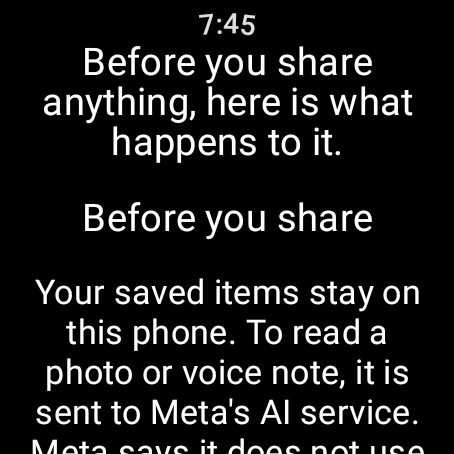
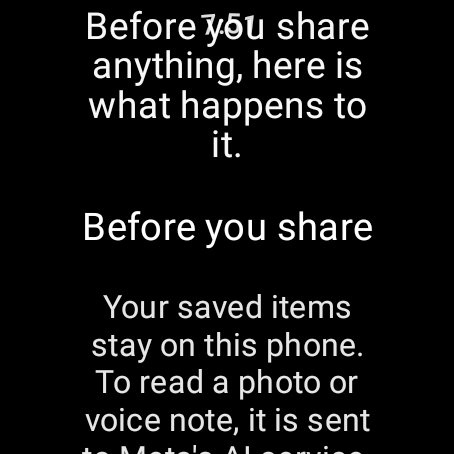
Wear: round-safe layout and round screenshots

diff --git a/wear/app/src/main/java/app/asih/wear/MainActivity.kt b/wear/app/src/main/java/app/asih/wear/MainActivity.kt
@@ -16,8 +16,7 @@ import androidx.activity.compose.rememberLauncherForActivityResult
 import androidx.activity.result.contract.ActivityResultContracts
 import androidx.compose.foundation.background
 import androidx.compose.foundation.layout.*
-import androidx.compose.foundation.rememberScrollState
-import androidx.compose.foundation.verticalScroll
+import androidx.compose.ui.platform.LocalConfiguration
 import androidx.compose.runtime.*
 import androidx.compose.ui.Alignment
 import androidx.compose.ui.Modifier
@@ -26,6 +25,9 @@ import androidx.compose.ui.platform.LocalContext
 import androidx.compose.ui.text.style.TextAlign
 import androidx.compose.ui.semantics.contentDescription
 import androidx.compose.ui.semantics.semantics
+import androidx.compose.ui.layout.boundsInRoot
+import androidx.compose.ui.layout.onGloballyPositioned
+import androidx.compose.ui.geometry.Rect
 import androidx.compose.ui.unit.dp
 import androidx.compose.ui.unit.sp
 import androidx.core.content.ContextCompat
@@ -52,10 +54,15 @@ import kotlin.concurrent.thread
 private enum class Screen { NOTICE, HOME, SETTINGS, REPLY }
 
 class MainActivity : ComponentActivity(), TextToSpeech.OnInitListener {
-    internal companion object { var testInstance: MainActivity? = null; var testDisableLazyLists = false }
+    internal companion object { var testInstance: MainActivity? = null }
     internal var testRenderedText: List<String> = emptyList()
     internal var testCurrentScreen: String = ""
     internal var testTalkButtonLabel: String = ""
+    internal var testNavigateScreen: ((String) -> Unit)? = null
+    internal var testTalkAction: (() -> Unit)? = null
+    internal var testTitleBounds: Rect? = null
+    internal var testIntroBounds: Rect? = null
+    internal var testClockBounds: Rect? = null
     private var tts: TextToSpeech? = null
     private var ttsReady = false
     private var langCode = "en"
@@ -86,8 +93,12 @@ class MainActivity : ComponentActivity(), TextToSpeech.OnInitListener {
 
     @Composable private fun WearApp() {
         val ctx = LocalContext.current
+        val configuration = LocalConfiguration.current
+        val round = configuration.isScreenRound
+        val roundInset = if (round) (configuration.screenWidthDp * 0.1464f).dp else 0.dp
         val prefs = remember { getSharedPreferences("asih", MODE_PRIVATE) }
         var screen by remember { mutableStateOf(if (prefs.getBoolean("notice_ack", false)) Screen.HOME else Screen.NOTICE) }
+        testNavigateScreen = { screen = Screen.valueOf(it) }
         testCurrentScreen = screen.name
         var statusText by remember { mutableStateOf("") }
         var transcript by remember { mutableStateOf("") }
@@ -101,56 +112,41 @@ class MainActivity : ComponentActivity(), TextToSpeech.OnInitListener {
             if (granted) beginRecording(serverUrl, langCode, { isRecording = true; statusText = getString(R.string.listening) }, { isRecording = false }, { statusText = it }, { tr, r -> transcript = tr; reply = r; testRenderedText = listOfNotNull(r.line1, r.line2) + if (r.showFullDetails) listOf(getString(R.string.details_phone)) else emptyList(); statusText = ""; screen = Screen.REPLY; say(listOfNotNull(r.line1, r.line2).joinToString(". ")) })
             else statusText = getString(R.string.permission_denied)
         }
+        val talkAction: () -> Unit = {
+            if (isRecording) {
+                isRecording = false
+                stopAndSend(serverUrl, langCode, onStatus = { statusText = it }, onResult = { tr, r -> transcript = tr; reply = r; testRenderedText = listOfNotNull(r.line1, r.line2) + if (r.showFullDetails) listOf(getString(R.string.details_phone)) else emptyList(); statusText = ""; screen = Screen.REPLY; say(listOfNotNull(r.line1, r.line2).joinToString(". ")) })
+            } else if (ContextCompat.checkSelfPermission(ctx, Manifest.permission.RECORD_AUDIO) == PackageManager.PERMISSION_GRANTED) {
+                beginRecording(serverUrl, langCode, { isRecording = true; statusText = getString(R.string.listening) }, { isRecording = false }, { statusText = it }, { tr, r -> transcript = tr; reply = r; testRenderedText = listOfNotNull(r.line1, r.line2) + if (r.showFullDetails) listOf(getString(R.string.details_phone)) else emptyList(); statusText = ""; screen = Screen.REPLY; say(listOfNotNull(r.line1, r.line2).joinToString(". ")) })
+            } else permission.launch(Manifest.permission.RECORD_AUDIO)
+        }
+        testTalkAction = talkAction
         val noticeItems = listOf(getString(R.string.data_lead), getString(R.string.notice_title), getString(R.string.notice_body), getString(R.string.acknowledge))
-        Scaffold(timeText = { TimeText() }) {
+        Scaffold(timeText = { TimeText(modifier = Modifier.onGloballyPositioned { testClockBounds = it.boundsInRoot() }) }) {
             when (screen) {
-                Screen.NOTICE -> if (testDisableLazyLists) Column(Modifier.fillMaxSize().background(Color.Black).verticalScroll(rememberScrollState()).padding(12.dp), horizontalAlignment = Alignment.CenterHorizontally) {
-                    noticeItems.forEachIndexed { i, value ->
-                        if (i == noticeItems.lastIndex) Button(onClick = { prefs.edit().putBoolean("notice_ack", true).apply(); screen = Screen.HOME }) { Text(value, fontSize = 17.sp) }
-                        else Text(value, color = Color.White, fontSize = if (i == 2) 17.sp else 19.sp, textAlign = TextAlign.Center, modifier = Modifier.padding(vertical = 8.dp))
-                    }
-                } else ScalingLazyColumn(modifier = Modifier.fillMaxSize().background(Color.Black), horizontalAlignment = Alignment.CenterHorizontally, contentPadding = PaddingValues(12.dp)) {
+                Screen.NOTICE -> ScalingLazyColumn(modifier = Modifier.fillMaxSize().background(Color.Black).padding(horizontal = roundInset), horizontalAlignment = Alignment.CenterHorizontally, contentPadding = PaddingValues(top = if (round) 48.dp else 12.dp, bottom = 24.dp), autoCentering = androidx.wear.compose.foundation.lazy.AutoCenteringParams(itemIndex = 0)) {
                     items(noticeItems.size) { i ->
                         if (i == noticeItems.lastIndex) Button(onClick = { prefs.edit().putBoolean("notice_ack", true).apply(); screen = Screen.HOME }) { Text(noticeItems[i], fontSize = 17.sp) }
                         else Text(noticeItems[i], color = Color.White, fontSize = if (i == 2) 17.sp else 19.sp, textAlign = TextAlign.Center, modifier = Modifier.padding(vertical = 8.dp))
                     }
                 }
-                Screen.HOME -> Column(Modifier.fillMaxSize().background(Color.Black).padding(10.dp), horizontalAlignment = Alignment.CenterHorizontally, verticalArrangement = Arrangement.SpaceEvenly) {
-                    Text("Asih", color = Color.White, fontSize = 24.sp)
-                    Text(getString(R.string.intro), color = Color.White, fontSize = 15.sp, textAlign = TextAlign.Center)
+                Screen.HOME -> Column(Modifier.fillMaxSize().background(Color.Black).padding(start = roundInset + 10.dp, end = roundInset + 10.dp, top = if (round) 34.dp else 10.dp, bottom = 10.dp).semantics { }, horizontalAlignment = Alignment.CenterHorizontally, verticalArrangement = Arrangement.SpaceEvenly) {
+                    Text("Asih", color = Color.White, fontSize = 24.sp, modifier = Modifier.onGloballyPositioned { testTitleBounds = it.boundsInRoot() })
+                    Text(getString(R.string.intro), color = Color.White, fontSize = 15.sp, textAlign = TextAlign.Center, modifier = Modifier.onGloballyPositioned { testIntroBounds = it.boundsInRoot() })
                     testTalkButtonLabel = getString(if (isRecording) R.string.tap_stop else R.string.tap_talk)
-                    Button(onClick = {
-                        if (isRecording) { isRecording = false; stopAndSend(serverUrl, langCode, onStatus = { statusText = it }, onResult = { tr, r -> transcript = tr; reply = r; testRenderedText = listOfNotNull(r.line1, r.line2) + if (r.showFullDetails) listOf(getString(R.string.details_phone)) else emptyList(); statusText = ""; screen = Screen.REPLY; say(listOfNotNull(r.line1, r.line2).joinToString(". ")) }) }
-                        else if (ContextCompat.checkSelfPermission(ctx, Manifest.permission.RECORD_AUDIO) == PackageManager.PERMISSION_GRANTED) { beginRecording(serverUrl, langCode, { isRecording = true; statusText = getString(R.string.listening) }, { isRecording = false }, { statusText = it }, { tr, r -> transcript = tr; reply = r; testRenderedText = listOfNotNull(r.line1, r.line2) + if (r.showFullDetails) listOf(getString(R.string.details_phone)) else emptyList(); statusText = ""; screen = Screen.REPLY; say(listOfNotNull(r.line1, r.line2).joinToString(". ")) }) }
-                        else permission.launch(Manifest.permission.RECORD_AUDIO)
-                    }, modifier = Modifier.size(112.dp).semantics { contentDescription = getString(if (isRecording) R.string.tap_stop else R.string.tap_talk) }) { Text(if (isRecording) getString(R.string.tap_stop) else getString(R.string.tap_talk), textAlign = TextAlign.Center, fontSize = 17.sp) }
+                    Button(onClick = talkAction, modifier = Modifier.size(112.dp).semantics { contentDescription = getString(if (isRecording) R.string.tap_stop else R.string.tap_talk) }) { Text(if (isRecording) getString(R.string.tap_stop) else getString(R.string.tap_talk), textAlign = TextAlign.Center, fontSize = 17.sp) }
                     if (statusText.isNotBlank()) Text(statusText, color = Color.White, fontSize = 16.sp, textAlign = TextAlign.Center)
                     Button(onClick = { draftUrl = serverUrl; screen = Screen.SETTINGS }) { Text(getString(R.string.server), fontSize = 14.sp) }
                 }
-                Screen.SETTINGS -> Column(Modifier.fillMaxSize().background(Color.Black).verticalScroll(rememberScrollState()).padding(12.dp), horizontalAlignment = Alignment.CenterHorizontally, verticalArrangement = Arrangement.spacedBy(10.dp)) {
-                    Text(getString(R.string.server_url), color = Color.White, fontSize = 13.sp)
-                    androidx.compose.foundation.text.BasicTextField(value = draftUrl, onValueChange = { draftUrl = it }, textStyle = androidx.compose.ui.text.TextStyle(color = Color.White, fontSize = 15.sp), modifier = Modifier.fillMaxWidth().background(Color.DarkGray).padding(8.dp))
-                    Button(onClick = { serverUrl = draftUrl.trim().trimEnd('/'); prefs.edit().putString("server_url", serverUrl).apply(); screen = Screen.HOME }) { Text(getString(R.string.save)) }
-                    Button(onClick = { screen = Screen.HOME }) { Text(getString(R.string.back)) }
+                Screen.SETTINGS -> ScalingLazyColumn(modifier = Modifier.fillMaxSize().background(Color.Black).padding(horizontal = roundInset), horizontalAlignment = Alignment.CenterHorizontally, verticalArrangement = Arrangement.spacedBy(10.dp), contentPadding = PaddingValues(top = if (round) 48.dp else 12.dp, bottom = 24.dp), autoCentering = androidx.wear.compose.foundation.lazy.AutoCenteringParams(itemIndex = 0)) {
+                    item { Text(getString(R.string.server_url), color = Color.White, fontSize = 16.sp) }
+                    item { androidx.compose.foundation.text.BasicTextField(value = draftUrl, onValueChange = { draftUrl = it }, textStyle = androidx.compose.ui.text.TextStyle(color = Color.White, fontSize = 17.sp), modifier = Modifier.fillMaxWidth().background(Color.DarkGray).padding(8.dp)) }
+                    item { Button(onClick = { serverUrl = draftUrl.trim().trimEnd('/'); prefs.edit().putString("server_url", serverUrl).apply(); screen = Screen.HOME }) { Text(getString(R.string.save)) } }
+                    item { Button(onClick = { screen = Screen.HOME }) { Text(getString(R.string.back)) } }
                 }
                 Screen.REPLY -> {
                     val result = reply
-                    val replyItems: @Composable ColumnScope.() -> Unit = {
-                        if (result != null) {
-                            Text(result.line1, color = Color.White, fontSize = 20.sp, textAlign = TextAlign.Center)
-                            result.line2?.let { Text(it, color = Color.White, fontSize = 18.sp, textAlign = TextAlign.Center) }
-                            if (result.needsCall) {
-                                Text(getString(R.string.not_medical), color = Color.LightGray, fontSize = 13.sp, textAlign = TextAlign.Center)
-                                Button(onClick = { startActivity(Intent(Intent.ACTION_DIAL, Uri.parse("tel:911"))) }) { Text(getString(R.string.call_911)) }
-                            } else if (result.showFullDetails) Text(getString(R.string.details_phone), color = Color.LightGray, fontSize = 13.sp, textAlign = TextAlign.Center)
-                            if (transcript.isNotBlank()) Text(getString(R.string.you_said, transcript), color = Color.LightGray, fontSize = 13.sp, textAlign = TextAlign.Center)
-                            if (!ttsReady) Text(getString(R.string.tts_unavailable), color = Color.LightGray, fontSize = 13.sp, textAlign = TextAlign.Center)
-                            Button(onClick = { say(listOfNotNull(result.line1, result.line2).joinToString(". ")) }) { Text(getString(R.string.read_again)) }
-                        }
-                        Button(onClick = { screen = Screen.HOME }) { Text(getString(R.string.back)) }
-                    }
-                    if (testDisableLazyLists) Column(Modifier.fillMaxSize().background(Color.Black).verticalScroll(rememberScrollState()).padding(12.dp), horizontalAlignment = Alignment.CenterHorizontally, verticalArrangement = Arrangement.spacedBy(8.dp), content = replyItems)
-                    else ScalingLazyColumn(modifier = Modifier.fillMaxSize().background(Color.Black), horizontalAlignment = Alignment.CenterHorizontally, contentPadding = PaddingValues(12.dp)) {
+                    ScalingLazyColumn(modifier = Modifier.fillMaxSize().background(Color.Black).padding(horizontal = roundInset), horizontalAlignment = Alignment.CenterHorizontally, verticalArrangement = Arrangement.spacedBy(8.dp), contentPadding = PaddingValues(top = if (round) 48.dp else 12.dp, bottom = 24.dp), autoCentering = androidx.wear.compose.foundation.lazy.AutoCenteringParams(itemIndex = 0)) {
                         if (result != null) {
                             item { Text(result.line1, color = Color.White, fontSize = 20.sp, textAlign = TextAlign.Center) }
                             result.line2?.let { item { Text(it, color = Color.White, fontSize = 18.sp, textAlign = TextAlign.Center) } }

diff --git a/wear/app/src/test/java/app/asih/wear/ScreenshotsTest.kt b/wear/app/src/test/java/app/asih/wear/ScreenshotsTest.kt
@@ -14,6 +14,10 @@ import org.robolectric.annotation.Config
 import org.robolectric.annotation.GraphicsMode
 import org.robolectric.Shadows.shadowOf
 import java.io.File
+import android.graphics.Bitmap
+import android.graphics.Canvas
+import android.graphics.Paint
+import android.graphics.Path
 
 @RunWith(RobolectricTestRunner::class)
 @Config(sdk = [34], qualifiers = "w227dp-h227dp-small-notlong-round-watch-xhdpi-keyshidden-nonav")
@@ -23,16 +27,17 @@ class ScreenshotsTest {
         prepare(false)
         val scenario = ActivityScenario.launch(MainActivity::class.java)
         assertEquals("NOTICE", MainActivity.testInstance!!.testCurrentScreen)
-        capture(scenario, "01-notice-en.png")
-        repeat(10) { swipe(scenario, 380f, 90f) }
-        tap(scenario, 225f, 420f)
+        capture(scenario, "01-notice-en.png", "01-notice-en-round.png")
+        MainActivity.testInstance!!.testNavigateScreen!!("HOME")
+        idle()
         assertEquals("HOME", MainActivity.testInstance!!.testCurrentScreen)
-        capture(scenario, "02-home-en.png")
-        tap(scenario, 225f, 405f)
+        assertRoundHomeLayout()
+        capture(scenario, "02-home-en.png", "02-home-en-round.png")
+        MainActivity.testInstance!!.testNavigateScreen!!("SETTINGS")
+        idle()
         assertEquals("SETTINGS", MainActivity.testInstance!!.testCurrentScreen)
-        capture(scenario, "03-settings-en.png")
+        capture(scenario, "03-settings-en.png", "03-settings-en-round.png")
         MainActivity.testInstance!!.finish()
-        MainActivity.testDisableLazyLists = false
     }
 }
 
@@ -44,18 +49,17 @@ class SpanishScreenshotsTest {
         prepare(false)
         val scenario = ActivityScenario.launch(MainActivity::class.java)
         assertEquals("NOTICE", MainActivity.testInstance!!.testCurrentScreen)
-        capture(scenario, "04-notice-es.png")
-        repeat(10) { swipe(scenario, 380f, 90f) }
-        tap(scenario, 225f, 420f)
+        capture(scenario, "04-notice-es.png", "04-notice-es-round.png")
+        MainActivity.testInstance!!.testNavigateScreen!!("HOME")
+        idle()
         assertEquals("HOME", MainActivity.testInstance!!.testCurrentScreen)
-        capture(scenario, "05-home-es.png")
+        assertRoundHomeLayout()
+        capture(scenario, "05-home-es.png", "05-home-es-round.png")
         MainActivity.testInstance!!.finish()
-        MainActivity.testDisableLazyLists = false
     }
 }
 
 internal fun prepare(acknowledged: Boolean, serverUrl: String? = null) {
-    MainActivity.testDisableLazyLists = true
     val context = ApplicationProvider.getApplicationContext<Context>()
     context.getSharedPreferences("asih", Context.MODE_PRIVATE).edit().clear()
         .putBoolean("notice_ack", acknowledged).apply {
@@ -64,9 +68,31 @@ internal fun prepare(acknowledged: Boolean, serverUrl: String? = null) {
 }
 
 internal fun idle() { shadowOf(android.os.Looper.getMainLooper()).idleFor(16, java.util.concurrent.TimeUnit.MILLISECONDS) }
-internal fun capture(scenario: ActivityScenario<MainActivity>, name: String) {
+internal fun capture(scenario: ActivityScenario<MainActivity>, name: String, roundName: String? = null) {
     val view = MainActivity.testInstance!!.window.decorView
-    view.drawToBitmap().captureRoboImage(File("../screenshots", name).absolutePath)
+    val bitmap = view.drawToBitmap()
+    bitmap.captureRoboImage(File("../screenshots", name).absolutePath)
+    if (roundName != null) {
+        val masked = Bitmap.createBitmap(bitmap.width, bitmap.height, Bitmap.Config.ARGB_8888)
+        val canvas = Canvas(masked)
+        canvas.drawColor(android.graphics.Color.BLACK)
+        val circle = Path().apply { addCircle(bitmap.width / 2f, bitmap.height / 2f, minOf(bitmap.width, bitmap.height) / 2f, Path.Direction.CW) }
+        canvas.save()
+        canvas.clipPath(circle)
+        canvas.drawBitmap(bitmap, 0f, 0f, Paint(Paint.ANTI_ALIAS_FLAG))
+        canvas.restore()
+        masked.compress(Bitmap.CompressFormat.PNG, 100, File("../screenshots", roundName).outputStream())
+    }
+}
+private fun assertRoundHomeLayout() {
+    val activity = MainActivity.testInstance!!
+    val title = activity.testTitleBounds ?: error("Title bounds were not recorded")
+    val intro = activity.testIntroBounds ?: error("Intro bounds were not recorded")
+    val density = activity.resources.displayMetrics.density
+    val safeInset = activity.resources.configuration.screenWidthDp * density * 0.1464f
+    val clockAreaBottom = 32f * density
+    org.junit.Assert.assertTrue("Title overlaps TimeText clock area: title=$title clockBottom=$clockAreaBottom", title.top >= clockAreaBottom)
+    org.junit.Assert.assertTrue("Home text exceeds round safe area: intro=$intro inset=$safeInset", intro.left >= safeInset && intro.right <= activity.window.decorView.width - safeInset)
 }
 internal fun tap(scenario: ActivityScenario<MainActivity>, x: Float, y: Float) = touch(scenario, x, y, x, y)
 internal fun swipe(scenario: ActivityScenario<MainActivity>, fromY: Float, toY: Float) = touch(scenario, 225f, fromY, 225f, toY)

diff --git a/wear/app/src/test/java/app/asih/wear/EndToEndMockServerTest.kt b/wear/app/src/test/java/app/asih/wear/EndToEndMockServerTest.kt
@@ -30,9 +30,10 @@ class EndToEndMockServerTest {
         val activity = MainActivity.testInstance!!
         activity.testPcmSource = { ByteArray(3200) }
         assertEquals("Tap to talk", activity.testTalkButtonLabel)
-        tap(scenario, 225f, 225f)
+        activity.testTalkAction!!()
+        idle()
         assertEquals("Tap to stop", activity.testTalkButtonLabel)
-        tap(scenario, 225f, 225f)
+        activity.testTalkAction!!()
         val deadline = System.nanoTime() + TimeUnit.SECONDS.toNanos(20)
         var visible: List<String> = emptyList()
         while (System.nanoTime() < deadline && visible.isEmpty()) {
@@ -42,8 +43,7 @@ class EndToEndMockServerTest {
         }
         assertTrue("Reply did not appear; rendered text was $visible", visible.contains("Appointment help is on your phone."))
         assertTrue(visible.contains("Open Asih and take a photo of the letter."))
-        capture(scenario, "06-reply-en.png")
+        capture(scenario, "06-reply-en.png", "06-reply-en-round.png")
         activity.finish()
-        MainActivity.testDisableLazyLists = false
     }
 }
